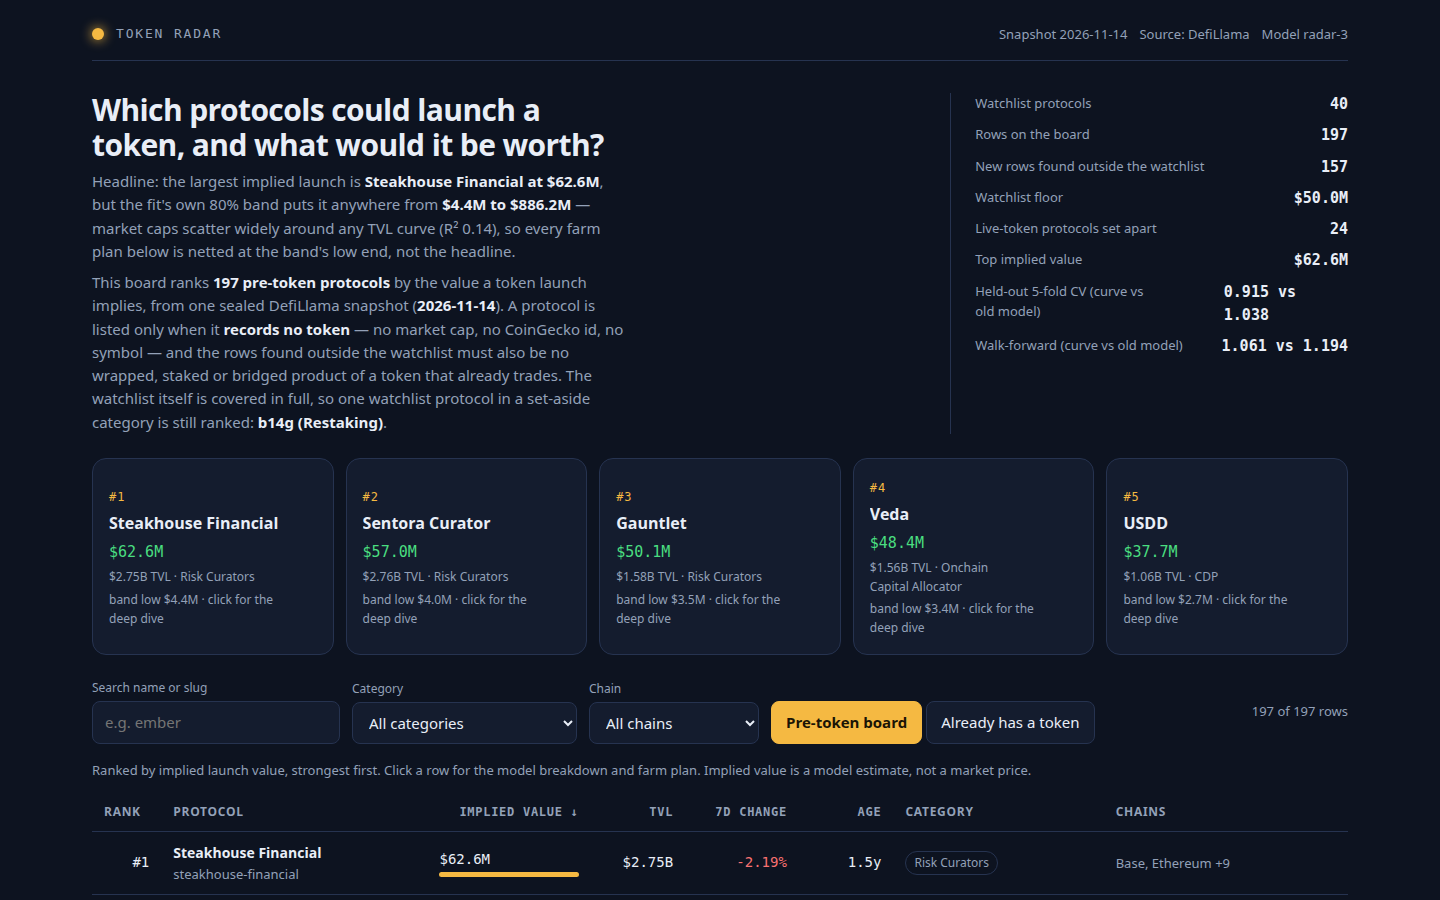
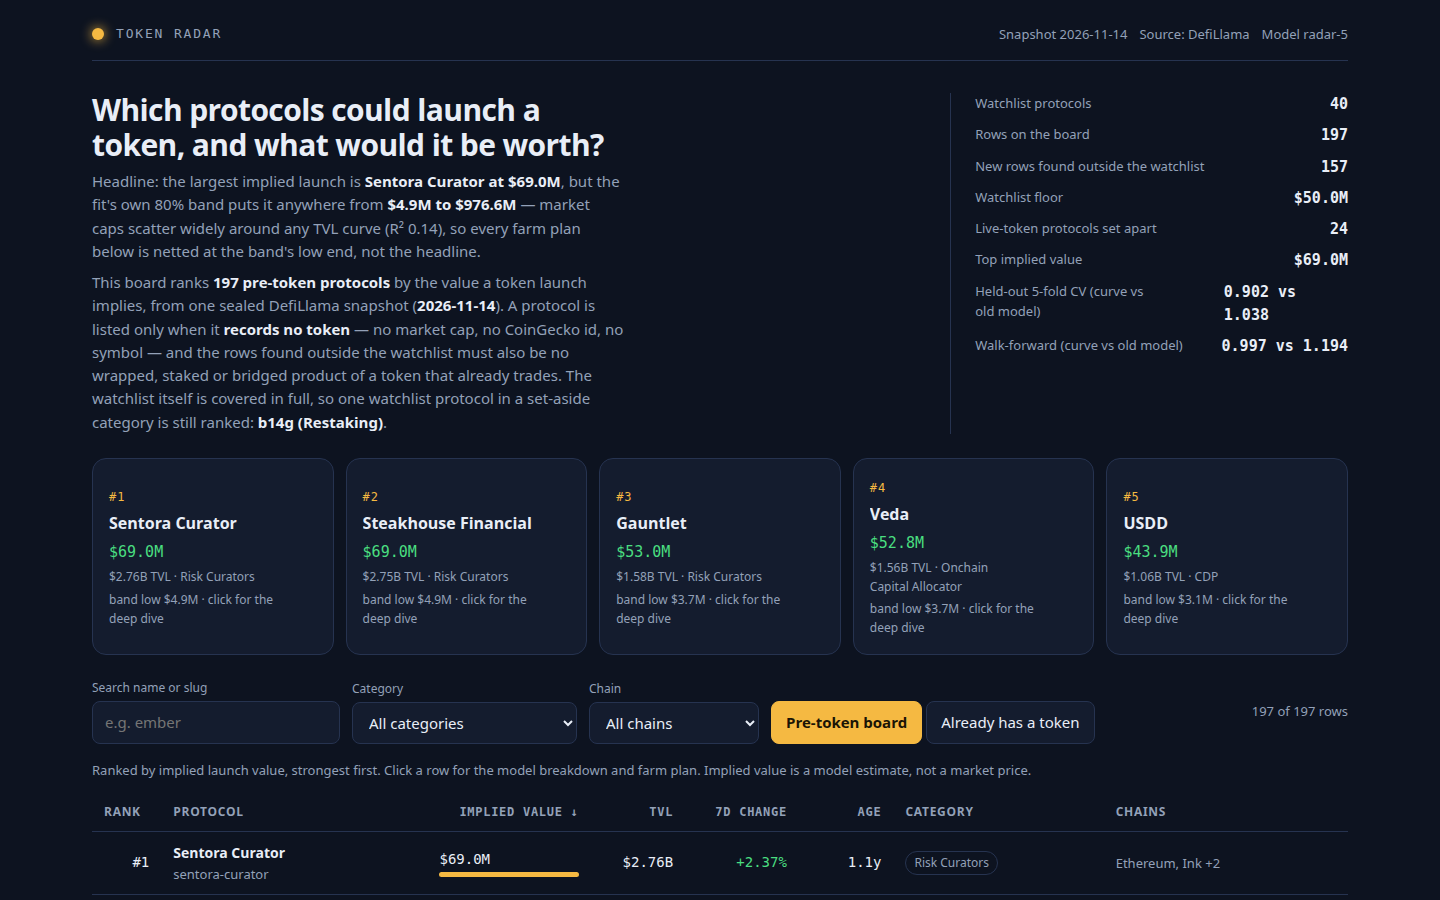
Token Radar (radar-5): bare fitted curve — growth/maturity/breadth adjustments removed
Held-out testing showed the adjustments cost accuracy (5-fold CV 0.915 with
them, 0.902 bare; walk-forward 1.061 vs 0.997). Ablation: maturity was the
main cost, growth a smaller one, breadth neutral. Four further models tested
and rejected (shrinkage k=5, median regression, Huber, log-average ensemble)
— none beat the bare curve on both tests by a clear margin. Board re-ranked
(190/197 positions move); top 5 names unchanged, Sentora/Steakhouse swap 1-2.
Dashboard copy updated to say what the adjustments cost and why they are gone;
screenshots retaken.

diff --git a/dashboard/app.js b/dashboard/app.js
@@ -34,9 +34,10 @@
     return Math.max(0, Math.round(days)) + 'd';
   }
 
-  // The model in one function: the fitted curve's value for the row's TVL, x growth, x maturity,
-  // x chain breadth. The dashboard shows the breakdown and checks the recomputed number against
-  // the row board.json carries.
+  // The model in one function: the fitted curve's value for the row's TVL. Radar-5 sets every
+  // adjustment weight to zero, so the growth, maturity and breadth multipliers are all 1.0 and
+  // the value is the bare curve. The dashboard shows the breakdown and checks the recomputed
+  // number against the row board.json carries.
   function impliedFromBase(base, row, model) {
     var growth = Math.min(model.growth_cap, Math.max(model.growth_floor, row.change_7d === null || row.change_7d === undefined ? 0 : row.change_7d));
     var growthMult = 1 + (growth / 100) * model.growth_weight;
@@ -442,8 +443,8 @@
     var v = DATA.validation;
     var panel = el('section', { class: 'panel model', 'aria-label': 'How the value is estimated' },
       el('h2', { text: 'How the value is estimated' }),
-      el('p', { class: 'sub', text: 'Implied value = the fitted curve\'s value for the protocol\'s TVL × growth multiplier × maturity multiplier × chain multiplier. The curve is the least-squares line of log market cap on log TVL over the snapshot\'s own ' + f.n + ' traded protocols outside CEX — fitted at run time from this snapshot, so no coefficient is ever hard-coded.' }),
-      el('div', { class: 'formula', text: 'log10(FDV) = ' + f.intercept.toFixed(3) + ' + ' + f.slope.toFixed(3) + ' × log10(TVL)   ·   implied = round(10^(curve) × (1 + clamp(7d%, ' + m.growth_floor + ', ' + m.growth_cap + ') ÷ 100 × ' + m.growth_weight + ') × (0.6 + min(age, ' + m.maturity_days + ') ÷ ' + m.maturity_days + ' × 0.4) × (1 + 0.03 × min(chains − 1, ' + m.breadth_max_chains + ')))' }),
+      el('p', { class: 'sub', text: 'Implied value = the fitted curve\'s value for the protocol\'s TVL, nothing else. The curve is the least-squares line of log market cap on log TVL over the snapshot\'s own ' + f.n + ' traded protocols outside CEX — fitted at run time from this snapshot, so no coefficient is ever hard-coded. Growth, age and chain breadth were tested as multipliers on the curve and removed in radar-5: with them back, the curve scores ' + v.cv_curve_adj_rmse.toFixed(3) + ' CV and ' + v.walkforward_adj_rmse.toFixed(3) + ' walk-forward, against ' + v.cv_curve_rmse.toFixed(3) + ' and ' + v.walkforward_curve_rmse.toFixed(3) + ' bare — they cost accuracy, so they are gone.' }),
+      el('div', { class: 'formula', text: 'log10(FDV) = ' + f.intercept.toFixed(3) + ' + ' + f.slope.toFixed(3) + ' × log10(TVL)   ·   implied = round(10^(curve))' }),
       el('div', { class: 'chart', html: curveChart() }),
       el('p', { class: 'sub', text: 'Each dot is one traded token the curve was fitted on (' + f.n + ' tokens). The line is the fit: R² ' + f.r2.toFixed(2) + ', residual SD ' + f.resid_sd.toFixed(2) + ' in log10 — wide, because market caps scatter widely around any TVL curve, which is why every farm plan is netted at the low end of the fit\'s 80% band instead of the headline value.' }),
       el('table', { class: 'mult-table' },
@@ -452,7 +453,7 @@
         el('tbody', null,
           el('tr', null, el('td', { text: '5-fold cross-validation (' + v.cv_n + ' tokens)' }), el('td', { class: 'num', text: v.cv_curve_rmse.toFixed(3) }), el('td', { class: 'num', text: v.cv_median_rmse.toFixed(3) })),
           el('tr', null, el('td', { text: 'Walk-forward: fit the oldest two-thirds, test the newest third (' + v.walkforward_n_test + ' tokens)' }), el('td', { class: 'num', text: v.walkforward_curve_rmse.toFixed(3) }), el('td', { class: 'num', text: v.walkforward_median_rmse.toFixed(3) })))),
-      el('p', { class: 'sub', text: 'Two richer models were fitted and rejected on the same held-out test: per-category intercepts and a ridge regression on TVL, chain count, age and 7-day change both predicted worse than the single curve, so the model stays one curve. The adjustments are small and bounded, and the dashboard says what they cost: the curve alone scores ' + v.cv_curve_only_rmse.toFixed(3) + ' log10 RMSE on held-out tokens, the curve with the adjustments ' + v.cv_curve_rmse.toFixed(3) + '.' }));
+      el('p', { class: 'sub', text: 'Richer models were fitted and rejected on the same held-out test: per-category intercepts and a ridge regression on TVL, chain count, age and 7-day change both predicted worse than the single curve. Radar-5 also tested hierarchical shrinkage of the category effects, median regression, Huber regression and a log-average ensemble of the curve with the category median: none beat the bare curve on both tests by a clear margin, so the model stays one curve, unadjusted.' }));
     return panel;
   }
 
@@ -505,7 +506,7 @@
     var list = el('ol', { class: 'brief-list' });
     [
       'Working radar: the board covers all 40 watchlist protocols (197 rows) and ranks the pre-token ones by a stated implied value. The page recomputes every value from the snapshot figures, so the screenshots and the code agree.',
-      'Value model: a fitted log-log curve on the snapshot\'s own 119 traded tokens, with 7-day growth, age and chain breadth as small bounded adjustments. Live-token protocols are set apart with their market caps and never ranked.',
+      'Value model: the bare fitted log-log curve on the snapshot\'s own 119 traded tokens — 7-day growth, age and chain breadth were tested as adjustments and removed because they cost held-out accuracy. Live-token protocols are set apart with their market caps and never ranked.',
       'Farm plans: every row carries six concrete steps with cost and time, netted at the low end of the fit\'s 80% band, per $100 of capital.',
       'The page: sortable, filterable and searchable, with a detail view for every protocol and a live-token view apart.',
       'Looks made: one dark palette, consistent spacing, system type, no framework and no network — every byte the page shows is local.'
@@ -562,10 +563,6 @@
     dialog.appendChild(head);
     if (row) {
       var recomputed = impliedOf(row, DATA.model);
-      var growth = Math.min(DATA.model.growth_cap, Math.max(DATA.model.growth_floor, row.change_7d === null ? 0 : row.change_7d));
-      var age = row.age_days === null ? DATA.model.unknown_age_days : row.age_days;
-      var maturity = DATA.model.maturity_floor + (Math.min(Math.max(age, 0), DATA.model.maturity_days) / DATA.model.maturity_days) * DATA.model.maturity_range;
-      var breadth = 1 + Math.min(Math.max((row.chains || []).length - 1, 0), DATA.model.breadth_max_chains) * DATA.model.breadth_per_chain;
       var eq = function (label, value) {
         return el('div', null, el('span', { text: label }), el('b', { text: value }));
       };
@@ -575,10 +572,10 @@
           eq('TVL', fmtUsd(row.tvl_usd)),
           eq('Fitted curve value', fmtUsd(row.fit_base_usd) + ' (log10(FDV) = ' + DATA.fit.intercept.toFixed(3) + ' + ' + DATA.fit.slope.toFixed(3) + ' × log10(TVL))'),
           eq('Low end of the 80% band', fmtUsd(row.band_low_usd)),
-          eq('7-day growth', fmtPct(row.change_7d) + ' → ×' + (1 + (growth / 100) * DATA.model.growth_weight).toFixed(3)),
-          eq('Maturity', fmtAge(row.age_days) + ' → ×' + maturity.toFixed(3)),
-          eq('Chain breadth', (row.chains || []).length + ' chain' + ((row.chains || []).length === 1 ? '' : 's') + ' → ×' + breadth.toFixed(3)),
-          eq('Implied value', fmtUsd(row.implied_value_usd))));
+          eq('7-day change', fmtPct(row.change_7d) + ' (shown, not applied)'),
+          eq('Age', fmtAge(row.age_days) + ' (shown, not applied)'),
+          eq('Chains', (row.chains || []).length + ' chain' + ((row.chains || []).length === 1 ? '' : 's') + ' (shown, not applied)'),
+          eq('Implied value', fmtUsd(row.implied_value_usd) + ' — the bare curve; the growth, age and breadth adjustments were tested and removed in radar-5')));
       var note = recomputed === row.implied_value_usd
         ? 'The page recomputes this value from the snapshot figures and it matches board.json (' + fmtUsd(row.implied_value_usd) + '). Implied value is a model estimate, not a price: the token does not exist yet.'
         : 'The page recomputes ' + fmtUsd(recomputed) + ' from the snapshot figures, which does not match board.json (' + fmtUsd(row.implied_value_usd) + ') — treat the row as stale.';

diff --git a/lib/model.ts b/lib/model.ts
@@ -1,8 +1,10 @@
-// Token Radar, model radar-3: one sealed snapshot in, one ranked board out.
+// Token Radar, model radar-5: one sealed snapshot in, one ranked board out.
 //
-// The dashboard is revision 4 of the page: it adds the top-10 deep dives, the sensitivity
-// ranges and the nearest traded comparables below. The model is unchanged from radar-3; the
-// page changed, not the arithmetic, so the board's values and ranks are the same as radar-3's.
+// The dashboard is revision 5 of the page: it adds the top-10 deep dives, the sensitivity
+// ranges and the nearest traded comparables below. The model changed from radar-3/radar-4 in
+// one way only: the growth, maturity and breadth adjustments are gone, so the implied value
+// is the bare fitted curve. The page changed with it: the model section says what the
+// adjustments cost and why they were removed.
 //
 // The board covers every slug in the snapshot's watchlist (the floor, never a ceiling) and adds
 // every other clean pre-token protocol in the snapshot: no token on record, not a wrapped /
@@ -22,21 +24,21 @@
 // the band is the fit's own 80% prediction band, and the farm plan nets every protocol at the
 // band's low end.
 //
-//   base       = 10 ^ (intercept + slope x log10(TVL))
-//   growth     = clamp(change_7d, -60, 120) per cent
-//   growthMult = 1 + (growth / 100) x GROWTH_WEIGHT
-//   maturity   = 0.6 + min(age_days, 1095) / 1095 x 0.4   (age_days unknown: 365)
-//   breadth    = 1 + 0.03 x min(chains - 1, 5)            (more chains, wider distribution)
-//   implied    = max(1, round(base x growthMult x maturity x breadth))
+//   implied    = max(1, round(10 ^ (intercept + slope x log10(TVL))))
 //   band_low   = implied x 10 ^ (-1.28 x resid_sd)       (low end of the 80% band)
 //
-// The adjustments are small and bounded, and the dashboard says what they cost: on held-out
-// traded tokens the curve alone scores 0.902 log10 RMSE and the curve with the adjustments
-// 0.915, against 1.038 for the old median-multiple model. Two richer models were fitted and
-// rejected on the same held-out test: per-category intercepts (0.952) and a ridge regression
-// on TVL, chains, age and 7-day change (0.950) both predicted worse than the single curve, so
-// the model stays one curve. No protocol name is ever special-cased: the same function scores
-// every row.
+// The adjustments are gone because held-out testing says they cost accuracy. Radar-3/radar-4
+// multiplied the curve by a 7-day growth factor, an age maturity factor and a chain-breadth
+// factor; ablating them one at a time on the same held-out test showed the maturity factor
+// was the main cost (walk-forward 1.051 with it alone, 0.997 without any of them) and the
+// growth factor a smaller one, while breadth was neutral. Bare curve vs curve with all three
+// adjustments: 5-fold CV 0.902 vs 0.915, walk-forward 0.997 vs 1.061. Four further models
+// were fitted and rejected on the same test: hierarchical shrinkage of per-category effects
+// (k=5: CV 0.909, walk-forward 0.990), median (quantile) regression (0.899, 0.993), Huber
+// regression (0.901, 0.977) and a log-average ensemble of the curve with the category median
+// (0.902, 0.969) — none beats the bare curve on both metrics by a clear margin, so radar-5
+// stays one curve, unadjusted. No protocol name is ever special-cased: the same function
+// scores every row.
 
 /** The snapshot's protocol entry: exactly the ten fields the sealed input carries. */
 export interface SnapshotProtocol {
@@ -76,6 +78,25 @@ export interface ModelConstants {
 }
 
 export const MODEL: ModelConstants = {
+  // Radar-5: every adjustment weight is zero, so the multipliers are all 1.0 and the implied
+  // value is the bare fitted curve. Held-out testing removed them (see the file header);
+  // the fields stay so the dashboard and the old-model baseline keep their shape.
+  growth_weight: 0,
+  growth_floor: -60,
+  growth_cap: 120,
+  maturity_floor: 1,
+  maturity_range: 0,
+  maturity_days: 1095,
+  unknown_age_days: 365,
+  breadth_per_chain: 0,
+  breadth_max_chains: 5,
+  band_z: 1.28,
+};
+
+/** The radar-3/radar-4 adjustment weights, kept for one purpose only: the old
+ *  median-multiple baseline in the held-out test is scored exactly as radar-2 shipped it,
+ *  with its adjustments on, so the comparison against it stays honest. */
+export const LEGACY_MODEL: ModelConstants = {
   growth_weight: 0.5,
   growth_floor: -60,
   growth_cap: 120,
@@ -89,7 +110,7 @@ export const MODEL: ModelConstants = {
 };
 
 /** The model's version label: the dashboard names it and the rules quote it. */
-export const MODEL_VERSION = 'radar-3';
+export const MODEL_VERSION = 'radar-5';
 
 /** How many live-token protocols the Live token view carries, by market cap. */
 export const LIVE_ROWS = 24;
@@ -185,14 +206,18 @@ export interface FitCurve {
   resid_sd: number;
 }
 
-/** The held-out test that chose the curve over the old median-multiple model. */
+/** The held-out test that chose the curve over the old median-multiple model. The `adj`
+ *  columns score the fitted curve with the removed radar-3 adjustments switched back on,
+ *  so the dashboard can show what removing them bought. */
 export interface Validation {
   cv_folds: number;
   cv_curve_rmse: number;
   cv_curve_only_rmse: number;
+  cv_curve_adj_rmse: number;
   cv_median_rmse: number;
   cv_n: number;
   walkforward_curve_rmse: number;
+  walkforward_adj_rmse: number;
   walkforward_median_rmse: number;
   walkforward_n_test: number;
 }
@@ -360,6 +385,7 @@ export function validateFit(protocols: SnapshotProtocol[], asOf: string, model: 
   const folds = 5;
   let curveSe = 0;
   let curveOnlySe = 0;
+  let adjSe = 0;
   let medianSe = 0;
   let n = 0;
   for (let k = 0; k < folds; k++) {
@@ -370,9 +396,11 @@ export function validateFit(protocols: SnapshotProtocol[], asOf: string, model: 
       const actual = Math.log10(p.mcap_usd!);
       const eCurve = Math.log10(Math.max(1, curveValue(fit, p.tvl_usd) * adjustments(p, asOf, model).combined)) - actual;
       const eCurveOnly = Math.log10(Math.max(1, curveValue(fit, p.tvl_usd))) - actual;
-      const eMedian = Math.log10(medianPredict(train, p, asOf, model)) - actual;
+      const eAdj = Math.log10(Math.max(1, curveValue(fit, p.tvl_usd) * adjustments(p, asOf, LEGACY_MODEL).combined)) - actual;
+      const eMedian = Math.log10(medianPredict(train, p, asOf, LEGACY_MODEL)) - actual;
       curveSe += eCurve * eCurve;
       curveOnlySe += eCurveOnly * eCurveOnly;
+      adjSe += eAdj * eAdj;
       medianSe += eMedian * eMedian;
       n++;
     }
@@ -383,21 +411,26 @@ export function validateFit(protocols: SnapshotProtocol[], asOf: string, model: 
   const testW = dated.slice(cut);
   const fitW = fitCurve(trainW);
   let curveWSe = 0;
+  let adjWSe = 0;
   let medianWSe = 0;
   for (const p of testW) {
     const actual = Math.log10(p.mcap_usd!);
     const eCurve = Math.log10(Math.max(1, curveValue(fitW, p.tvl_usd) * adjustments(p, asOf, model).combined)) - actual;
-    const eMedian = Math.log10(medianPredict(trainW, p, asOf, model)) - actual;
+    const eAdj = Math.log10(Math.max(1, curveValue(fitW, p.tvl_usd) * adjustments(p, asOf, LEGACY_MODEL).combined)) - actual;
+    const eMedian = Math.log10(medianPredict(trainW, p, asOf, LEGACY_MODEL)) - actual;
     curveWSe += eCurve * eCurve;
+    adjWSe += eAdj * eAdj;
     medianWSe += eMedian * eMedian;
   }
   return {
     cv_folds: folds,
     cv_curve_rmse: Math.sqrt(curveSe / n),
     cv_curve_only_rmse: Math.sqrt(curveOnlySe / n),
+    cv_curve_adj_rmse: Math.sqrt(adjSe / n),
     cv_median_rmse: Math.sqrt(medianSe / n),
     cv_n: n,
     walkforward_curve_rmse: Math.sqrt(curveWSe / testW.length),
+    walkforward_adj_rmse: Math.sqrt(adjWSe / testW.length),
     walkforward_median_rmse: Math.sqrt(medianWSe / testW.length),
     walkforward_n_test: testW.length,
   };

diff --git a/main.ts b/main.ts
@@ -1,7 +1,7 @@
 // Token Radar entry (Node 22, standard library only).
 //
 // The program reads the sealed snapshot from /input/snapshot.json (or --input <file|dir>), scores
-// every pre-token protocol with the radar-3 model in lib/model.ts, writes the ranked board to
+// every pre-token protocol with the radar-5 model in lib/model.ts, writes the ranked board to
 // /output/board.json, and copies this repository's dashboard/ and screenshots/ to /output. Last,
 // it writes /output/dossier.json, the summary the judge reads, with the vendored make.fun library.
 //

diff --git a/README.md b/README.md
@@ -8,7 +8,7 @@ A dashboard that ranks pre-token DeFi protocols by implied launch value — what
 
 Entry for the make.fun **token-radar-01** bounty ($1,325; deadline 14 Dec 2026, 17:00 WIB).
 
-Revision 4 is a dashboard overhaul: the model is unchanged from radar-3 — the page changed, not the arithmetic. It adds a headline finding with the fit's own band, a top-10 deep dive with sensitivity ranges (TVL halved and doubled) and the nearest traded comparables per protocol, and a section that maps each of the brief's criteria to the part of the page that answers it.
+Revision 5 changes the model: the growth, maturity and breadth adjustments are removed — the implied value is the bare fitted curve. Held-out testing showed the adjustments cost accuracy (5-fold CV 0.915 with them, 0.902 without; walk-forward 1.061 vs 0.997), and four further models (hierarchical shrinkage, median regression, Huber regression, a log-average ensemble) were tested and rejected — none beat the bare curve on both tests by a clear margin. The dashboard keeps revision 4's layout and says what the adjustments cost and why they are gone.
 
 ## Run it
 
@@ -28,20 +28,20 @@ Requires Node 22+. No dependencies beyond the Node standard library.
 
 | Rank | Protocol | TVL | Implied value |
 | --- | --- | --- | --- |
-| 1 | Steakhouse Financial | $2,753,981,495 | $62,636,355 |
-| 2 | Sentora Curator | $2,757,585,593 | $56,992,793 |
-| 3 | Gauntlet | $1,577,685,462 | $50,059,872 |
-| 4 | Veda | $1,563,415,482 | $48,360,314 |
-| 5 | USDD | $1,055,793,606 | $37,742,444 |
+| 1 | Sentora Curator | $2,757,585,593 | $69,022,315 |
+| 2 | Steakhouse Financial | $2,753,981,495 | $68,979,714 |
+| 3 | Gauntlet | $1,577,685,462 | $53,028,220 |
+| 4 | Veda | $1,563,415,482 | $52,801,254 |
+| 5 | USDD | $1,055,793,606 | $43,868,973 |
 
 Full board: `out/board.json` (197 rows). Each row also carries farm steps for that protocol.
 
 ## How it works
 
 - Input: the sealed DefiLlama snapshot (`snapshot.json`, fetched 2026-11-14, 758 protocols, 40 on the watchlist). The program reads it from `/input/snapshot.json` (or `--input <file|dir>`).
-- Model `radar-3` (`lib/model.ts`): implied value = the fitted log-log curve's value for the protocol's TVL — `log10(FDV) = 3.382 + 0.472 × log10(TVL)`, least squares over the snapshot's 119 traded protocols outside CEX (R² 0.14, residual SD 0.90 in log10) — adjusted for 7-day TVL growth, maturity, and chain breadth. The curve is fitted at run time from the snapshot, never hard-coded.
-- Held-out test (shown on the dashboard): 5-fold cross-validation log10 RMSE 0.915 for the curve vs 1.038 for the old median-multiple model; walk-forward (fit the oldest two-thirds, test the newest third) 1.061 vs 1.194. Per-category intercepts and a ridge regression on TVL, chains, age and 7-day change were fitted and rejected — both predicted worse out of sample than the single curve. Every farm plan is netted at the low end of the fit's 80% prediction band.
-- Dashboard (revision 4): a headline finding with the fit's band, the top 10 examined with sensitivity ranges and nearest traded comparables (same category, closest TVL first, computed at build time from the snapshot's traded tokens), and a section mapping the brief's five criteria to the page. The detail view for each top-10 protocol shows the comparables table and what the headline would need the market to pay; where a category has almost no traded name, the page says so.
+- Model `radar-5` (`lib/model.ts`): implied value = the bare fitted log-log curve's value for the protocol's TVL — `log10(FDV) = 3.382 + 0.472 × log10(TVL)`, least squares over the snapshot's 119 traded protocols outside CEX (R² 0.14, residual SD 0.90 in log10). No adjustments: the 7-day growth, maturity and chain-breadth multipliers of radar-3 were tested and removed because they cost held-out accuracy. The curve is fitted at run time from the snapshot, never hard-coded.
+- Held-out test (shown on the dashboard): 5-fold cross-validation log10 RMSE 0.902 for the curve vs 1.038 for the old median-multiple model; walk-forward (fit the oldest two-thirds, test the newest third) 0.997 vs 1.194. With the removed adjustments switched back on, the curve scores 0.915 CV and 1.061 walk-forward. Per-category intercepts and a ridge regression on TVL, chains, age and 7-day change were fitted and rejected — both predicted worse out of sample than the single curve — as were hierarchical shrinkage, median regression, Huber regression and a log-average ensemble in radar-5. Every farm plan is netted at the low end of the fit's 80% prediction band.
+- Dashboard (revision 5): a headline finding with the fit's band, the top 10 examined with sensitivity ranges and nearest traded comparables (same category, closest TVL first, computed at build time from the snapshot's traded tokens), and a section mapping the brief's five criteria to the page. The detail view for each top-10 protocol shows the comparables table and what the headline would need the market to pay; where a category has almost no traded name, the page says so.
 - Output: ranked `board.json`, a static offline dashboard (`dashboard/`, no framework, no network), 3 screenshots, and `dossier.json` built with the vendored `vendor/makefun-board.ts`.
 
 ## Files
